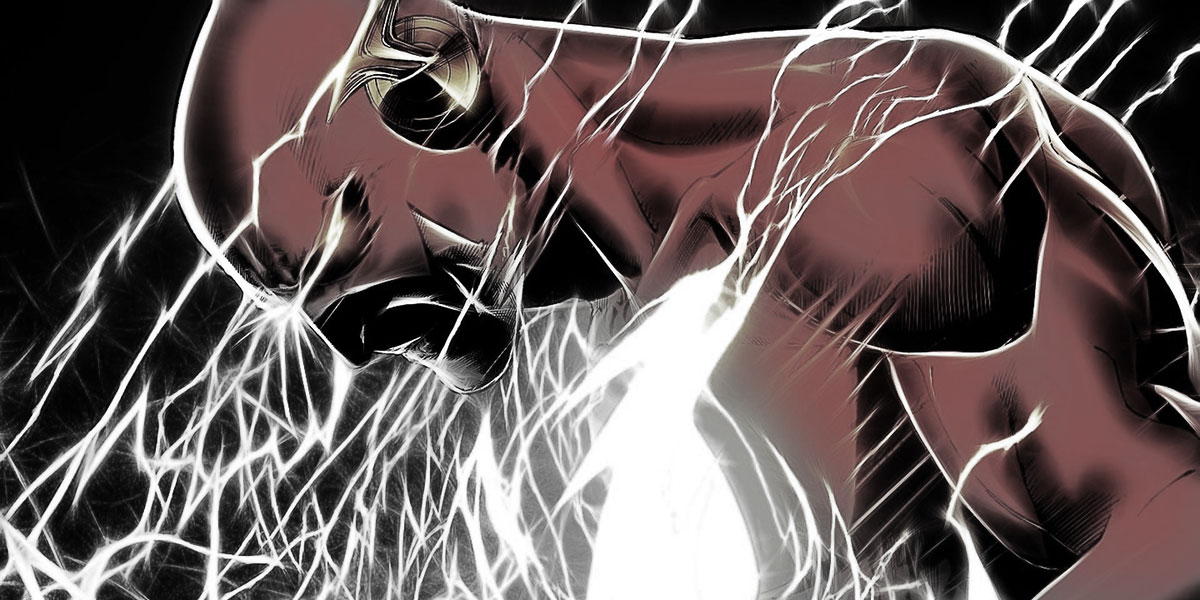
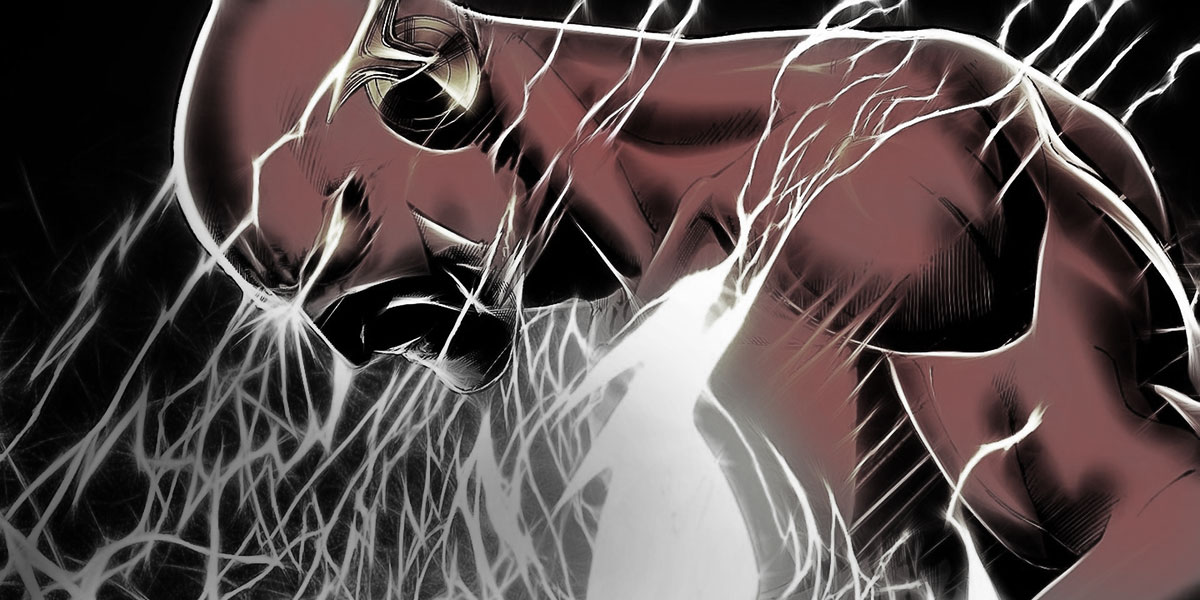
falsh and greenArrow menu bg images updated

Changed region(s): [[0.0, 0.21, 0.74, 1.0], [0.1233, 0.48, 0.1542, 0.57]]

diff --git a/src/scss/menu/bg.scss b/src/scss/menu/bg.scss
@@ -15,7 +15,7 @@
   &.active {
     visibility: visible;
     transform: scale(1);
-    opacity: 0.4;
+    opacity: 0.35;
     @media (min-width: 992px) {
       //animation: bg-grey 5s linear 2s forwards;
     }
